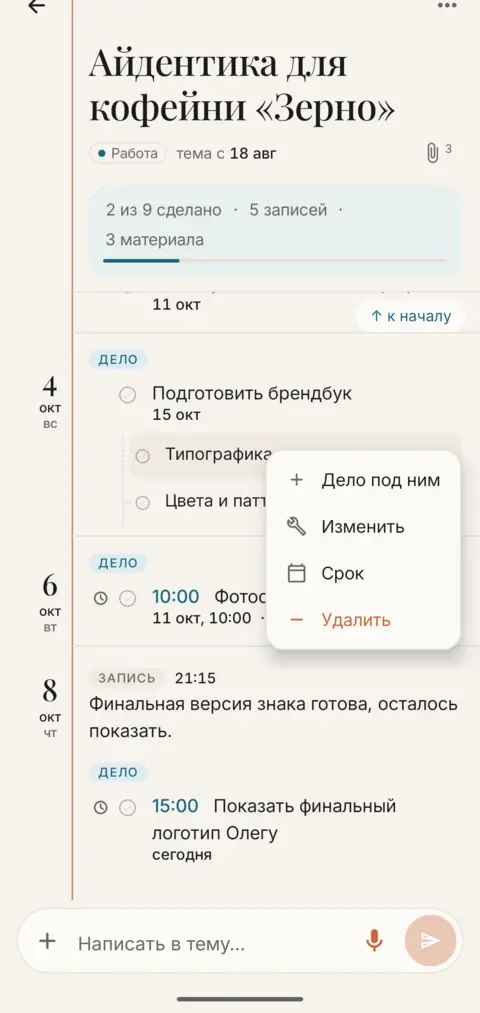
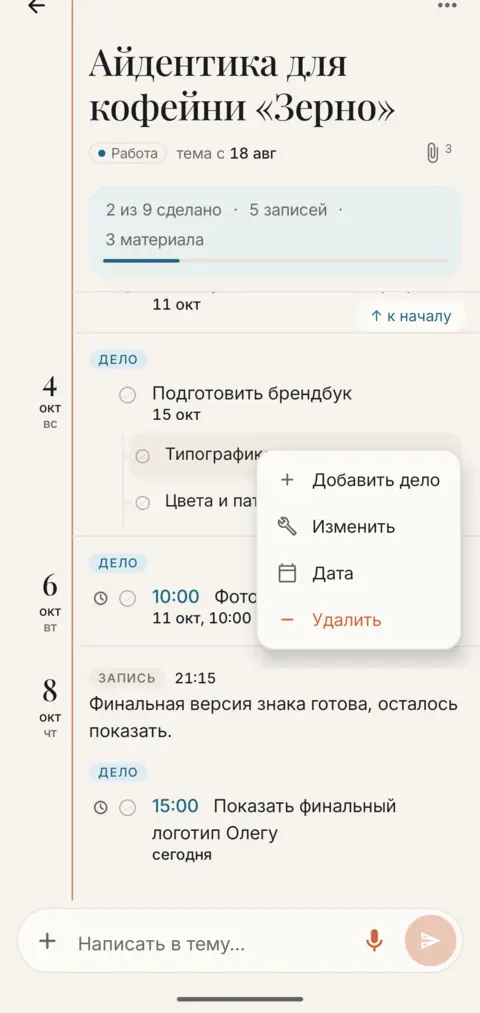
0.17: структура, замкнутые циклы, виджет, отпечаток, Помощь с разделами, чистка кода
- Обзор: активность на полях, сфера под названием, «Без даты» первым; «Входящие» на Сегодня
- Календарь сворачивается в неделю; «напомнить» по просроченным обещаниям; карточка недели; «Переслать» тему
- Вечернее уведомление «Перенести на завтра»; виджет «Margin · Сегодня»; вход по отпечатку, «Где ваши данные»
- Помощь: оглавление и поиск, новые скриншоты; вычитка русских названий
- MainVm: чистые операции в data/ (+OpsTest), удалён старый бриф; бот и IMAP — только в debug; палитра

Changed region(s): [[0.5312, 0.4284, 0.9062, 0.6426]]

diff --git a/CLAUDE.md b/CLAUDE.md
@@ -34,7 +34,7 @@
   - **Тема без страницы «Дела»** (с 8 окт): одна лента; нажатие на прогресс — фильтр «только дела» (поле ввода тогда добавляет дело), скрепка — материалы. Время дела — петрольная ссылка перед названием (часы), шрифт строк как на «Сегодня». В меню ⋯: «Изменить», «В архив»; у архивной — «Вернуть», «Удалить». Галочки «В архив» в шапке нет. Строки из списков открывают тему с подсветкой дела в ленте («d:<id>»).
   - **«/» в главном поле** (`SmartComposer(slash = true)`): маленькое окошко с вариантами друг под другом — /дело /тема /идея и /работа /личное; выбранное — плашкой над полем, уходит в начало текста. `MainVm.send` разбирает теги: /дело → команда «задача», /идея → заметка (идея), /тема → `create_task` с `topic=true`, сфера — в `sphere` у созданного. Теги решают, ИИ только дополняет.
   - **Кружок дела** (`CheckCircle`) — меньше и тоньше (0,8 от размера, кольцо 1,1 dp), сделанное — заливка `c.ok` с белой галочкой.
-  - **Несколько дней у дела** (`Slot`, `data/Slots.kt`): «тренировка в пн и чт» — одно дело с днями, у каждого дня своя галочка и время; дело сделано, когда отмечены все. `due/time` (у дела и у дела темы) всегда = следующий открытый день (`syncSlots`, в т.ч. в `Topics.track`), поэтому сортировка, «просрочено», напоминания и ИИ работают как раньше. В списках дня — строка на каждый открытый день с id «<строка>@<день>» (`slotRows`, `slotRef`) и подписью «день 1 из 2»; отметка/перенос/время такой строки — `MainVm.toggleSlot/moveSlot`. Карточка: дни плашками (нажатие — отметить, долгое — убрать), «+ день». ИИ: `dates` в create_task/update_task/подзадачах; если пришли и дни, и повтор — решают слова (`everyCue`: «каждый», «по понедельникам» → повтор). Тесты: `SlotsTest` (офлайн), `YA_LIVE=1 RUNS=2 … --tests '*SlotsLiveTest*'` (8 окт: 10/10).
+  - **Несколько дней у дела** (`Slot`, `data/Slots.kt`): «тренировка в пн и чт» — одно дело с днями, у каждого дня своя галочка и время; дело сделано, когда отмечены все. `due/time` (у дела и у дела темы) всегда = следующий открытый день (`syncSlots`, в т.ч. в `Topics.track`), поэтому сортировка, «просрочено», напоминания и ИИ работают как раньше. В списках дня — строка на каждый открытый день с id «<строка>@<день>» (`slotRows`, `slotRef`) и подписью «день 1 из 2»; отметка/перенос/время такой строки — `MainVm.toggleSlot/moveSlot` → `AppData.toggleSlot/moveSlot` (`data/Slots.kt`). Карточка: дни плашками (нажатие — отметить, долгое — убрать), «+ день». ИИ: `dates` в create_task/update_task/подзадачах; если пришли и дни, и повтор — решают слова (`everyCue`: «каждый», «по понедельникам» → повтор). Тесты: `SlotsTest` (офлайн), `YA_LIVE=1 RUNS=2 … --tests '*SlotsLiveTest*'` (8 окт: 10/10).
   - **Пример данных** (`data/Demo.kt`): два месяца молодого дизайнера в Москве — рабочие и личные темы с лентами, материалами (картинки и PDF рисуются на телефоне, файлы `demo_*`), идеи, дела всех видов (просрочено, сегодня, повторы, несколько дней, ждём/обещал, без даты разного возраста, сделано, «не буду»), люди и организации, «Входящие». Даты — от сегодняшнего дня. Предлагается один раз после туториала и в Настройках («Пример данных»); данные пользователя откладываются в `files/margin.mine.json` (только при первой загрузке) и возвращаются кнопкой «Вернуть мои данные».
   - **Разбор в телефоне** (`ai/LocalParser.kt`, с 8 окт): фраза → дела без ИИ — вид (теги «/», «идея:»), даты и время («завтра в 15», «к среде», «через неделю», «12 октября», «до 10-го», «вечером»), несколько дней, повторы, люди (контакты + словарь частых имён во всех падежах, даже строчными), «Дима пришлёт…» → ждём, «обещал Анне…» → обещание, адрес, несколько дел в одном сообщении. Результат — те же действия, что у ИИ (`plan` → `Assistant.apply`). `Result.sure = false` для отчётов («созвонились»), правок («перенеси»), длинной диктовки, двух дат в одном куске, ожидания с продолжением, телефона/почты — тогда при сети спрашивается ИИ. Режим `Settings.parseMode`: «Телефон» (только код) / «Авто» (по умолчанию: код, сложное — ИИ) / «ИИ»; без сети или без ключа — всегда код. Под полем — живое превью (`MainVm.previewOf`, `SmartComposer(preview)`). Замер: `LocalParserTest` (своё — 50/50, чужие фразы из тестов ИИ — 14/15 верно, ни одной уверенной ошибки). **Регулярки проверять на устройстве**: в Android (ICU) lookbehind должен иметь ограниченную длину (`(?<=\p{L}{1,30})`), на JVM тесты это не ловят; разбор и превью обёрнуты в `runCatching`.
   - **Три вкладки — три вопроса** (с 8 окт): «Сегодня» — что сейчас; «Календарь» (`Views.WEEK`, рисует `CalendarScreen`: месяц сеткой + выбранный день) — что когда; «Обзор» (`Views.ALL`) — что есть: «Темы · Дела · Идеи» (по умолчанию «Темы»), под заголовком «5 тем · 35 дел · 4 идеи», фильтр «Личное / Работа» (без сферы = личное). Темы — `MonthTopicRow`, Идеи — `MonthIdeaRow`: на полях день начала тем же `DayMargin`, что в «Делах»; «N записей ▾» раскрывает записи; у идей — ссылки на выросшее. Дела — по дням и «Без даты». Пункта «Календарь» в боковом меню нет. Чисел на вкладках нет (сколько — говорит сводка); в «Обзоре» нет заголовка «Обзор» — сразу подменю. Вкладки 17sp, выбранная — чернила SemiBold; подменю 16sp, выбранное — петроль на светлой таблетке.
@@ -58,6 +58,7 @@
 - Словарь интерфейса (с 0.14): «дело · тема · идея · запись», не «задача/заметка»; главный экран в меню — «Ежедневник».
 - **Бета-инструменты (с 0.15)**: `data/Feedback.kt` — журнал падений (`MarginApp` ставит обработчик) и «Разобрало не так» (`filesDir/feedback/misparsed.jsonl`: фраза как набрана, кто разбирал phone/ai/card, что вышло); «Отправить отзыв» в меню — письмо на `Feedback.EMAIL` с журналами (FileProvider `feedback/`) и `MainVm.betaStats()` (разбор телефон/ИИ, отмены, расход). После падения при запуске — предложение отправить. Плитка «Записать» (`notify/WriteTile`) и динамические ярлыки «Записать/Надиктовать» (`MainActivity.ACTION_WRITE/DICTATE` → `focusKey`/`micKey` в `SmartComposer`). Пустое «Сегодня» — три примера (`Strings.tryExamples`, вставляются в поле). Поиск: недавние, «люди · темы · файлы», найденное дело темы ссылкой «↳». «Пример данных» в настройках — только в демо и в разделе разработчика (или «Вернуть мои данные»); «Пересылка» — в «Помощи».
 - **0.16 (этап 3)**: корпус разбора `ParseCorpusTest` (246 фраз, база чт 8 окт 10:00; порог 95 %, уверенных ошибок 0) — гонять после любой правки `LocalParser`, новые фразы из журналов «Разобрало не так» добавлять туда; `ParseHoldoutTest` — независимый замер (не подгонять под него). Срок «до/к четвергу» в четверг — следующий четверг. ИИ: дата темы уходит в то дело, о котором слова (`Assistant.matterOf`: ждём от названного → совпадение слов → единственное открытое; иначе ничего), `GuardsTest.topicDateGoesToTheMatterNamed`, живой `TopicsLiveTest.newsAboutAWait`. «Похоже, к теме …» — `AppData.likelyTopic` (люди темы ×3 + слова), в пузыре и во «Входящих». «Сегодня»: обещаний 3 + «ещё N ›», «просрочено с …», «Без даты» свёрнут при >5 (prefs `ui/undatedOpen`). Тема: части сводки — фильтры (дела / записи / материалы), «↑ к началу».
+- **0.17 (этап 4)**: «Обзор · Темы» — на полях последняя активность (`Task.lastActivity`), сфера под названием; «Обзор · Дела» — все дела, «Без даты» первым (решение владельца: обзор показывает всё). Строка «Во «Входящих»: N» на «Сегодня» (не дублируется с карточкой недели). Календарь: при прокрутке месяц сворачивается в закреплённую неделю, выходные серые. «напомнить» у чужого просроченного обещания и в карточке дела — `remindAbout` (SMS / «Поделиться», текст `remindText`). Карточка недели по воскресеньям (`AppData.weekReview`, в разделе разработчика — всегда). Тема → ⋯ «Переслать» (`topicText`). Вечернее уведомление: «Перенести на завтра» (только сегодняшние, без повторов и дней). Виджет «Margin · Сегодня» (Glance, `widget/TodayWidget`, обновляется через `Store.onSaved`). Вход по отпечатку (`Lock`, `Settings.lock`, MainActivity — FragmentActivity) и «Где ваши данные». Свой бот/IMAP — только в debug (`BuildConfig.FORWARD_CHANNELS`). Цвета белый/чёрный — `Palette.onAccent/overlay`. «Помощь» — оглавление из 6 групп (`Strings.helpGroups`) и поиск; скриншоты переснимаются с демо-сборки (обрезка 120 px сверху, 480 px, webp q72; «/» и «#» — через «Поделиться», без клавиатуры). Словарь вычитан: «Понято не так», «Добавить дело», «Дата» в меню темы.
 - APK: `~/Desktop/Margin2-<версия>.apk`, архив — `releases/Margin2-<версия>.apk`, тег `v2-<версия>`.
 - **Демо-копия**: `./gradlew assembleDemo` → `app/build/outputs/apk/demo/app-demo.apk` (`ru.anjeib.margin.v2.demo`, «Margin 2 · демо», подписана, ставится рядом): при первом запуске сама загружает пример данных (`BuildConfig.DEMO` → `MainVm.loadDemo`). Кладётся как `~/Desktop/Margin2-<версия>-demo.apk` и в `releases/`.
 
@@ -94,7 +95,7 @@
   - **Почта** — IMAP (`com.sun.mail:android-mail`), пароль приложения; берутся только новые письма, отправленные себе на свой адрес или на «+margin»; только чтение, в ящике ничего не помечается. Сервер по домену (`Forward.imapHost`).
   - **MAX** — личных ботов нет (только юрлица/ИП): «Копировать» → в Margin кнопка «Вставить скопированное» (смотрится только описание буфера, текст читается по нажатию). Плюс везде: «Поделиться → В Margin» (текст, фото, файлы) и «В Margin» в меню выделенного текста (`PROCESS_TEXT`) — лист поверх чужого приложения, пользователь остаётся там.
   Секреты пересылки — в отдельных prefs `forward` (не входят в резервную копию Google). Очередь разбирается под мьютексом (`Processor.drain`) — приложение и воркер не возьмут одну запись дважды. Если ИИ ответил, что менять нечего, запись во «Входящие» не дублируется.
-- **3.18:** вместо ИИ-сводки на главной — блок «Обещания», собранный кодом (ждём и обещали, срок до +3 дней или просрочено; закрываются прямо в блоке; в списках ниже эти задачи не повторяются, кроме задач со временем в ленте дня). ИИ-бриф больше не строится (код `BriefCard`/`makeBrief` остался на случай возврата). Бейджи: «Обещание · Вам от Марины» / «Виктору от Вас» (`PromiseBadge`, склонение имён `String.dative()/genitive()` в `data/Writing.kt`, компании не склоняются), люди — бейджем с полным именем (`PersonBadge`) вместо буквы. «Люди» → «Контакты» во всём интерфейсе (люди и компании). Задача из идеи «Посмотреть» в заметке «Одиссея» → «Посмотреть Одиссею» (`Task.bareFromNote`, `String.accusative()`, правило в `ideaPrompt`). Окно «В Margin»: приложение-источник по имени (Gmail, Telegram…), отправитель из текста (`Forward.sender`: «От: Имя <почта>», шапка Яндекса, копия Telegram, «ООО …») с «+ контакт» (`Forward.addContact`), внизу обычное живое поле ввода (`SmartComposer(sendEmpty = true)`). Отправителя из Gmail «Поделиться» не даёт — для реального механизма нужна пересылка письма (IMAP) или своя почта Margin.
+- **3.18:** вместо ИИ-сводки на главной — блок «Обещания», собранный кодом (ждём и обещали, срок до +3 дней или просрочено; закрываются прямо в блоке; в списках ниже эти задачи не повторяются, кроме задач со временем в ленте дня). ИИ-бриф больше не строится (код `BriefCard`/`makeBrief` удалён в 0.17; найти — `git show v2-0.16`). Бейджи: «Обещание · Вам от Марины» / «Виктору от Вас» (`PromiseBadge`, склонение имён `String.dative()/genitive()` в `data/Writing.kt`, компании не склоняются), люди — бейджем с полным именем (`PersonBadge`) вместо буквы. «Люди» → «Контакты» во всём интерфейсе (люди и компании). Задача из идеи «Посмотреть» в заметке «Одиссея» → «Посмотреть Одиссею» (`Task.bareFromNote`, `String.accusative()`, правило в `ideaPrompt`). Окно «В Margin»: приложение-источник по имени (Gmail, Telegram…), отправитель из текста (`Forward.sender`: «От: Имя <почта>», шапка Яндекса, копия Telegram, «ООО …») с «+ контакт» (`Forward.addContact`), внизу обычное живое поле ввода (`SmartComposer(sendEmpty = true)`). Отправителя из Gmail «Поделиться» не даёт — для реального механизма нужна пересылка письма (IMAP) или своя почта Margin.
 - **3.19:** туториал — 4 экрана только о главном, с настоящими строками задач вместо описаний (пишите как думаете → результат; жесты; если понял не так — «Отменить» и команды; разрешения). Подробности — «Помощь» в меню под «Настройками» (`ui/Help.kt`, содержание — `Strings.helpSections`: как писать, разделы, обещания, внутри задачи и заметки, команды, жесты, связи, пересылка, голос и файлы). Команды «Исправить: …» (меняет существующее; действия `create_*` из ответа выбрасываются кодом) и «Добавить контакт: …». Счётчик «Отмены после ИИ» по местам (главная / в задаче / заметки) — в разделе разработчика (`MainVm.aiStats`, prefs `stats`): по нему решать, где нужны правила по умолчанию.
 - **3.20:** под задачей — одна тихая строка вместо плашек (`TaskLine`): «Вам от Марины · завтра · Ленина, 5 · #сайт». Ссылки цветом (с 3.21 — петроль): контакт → его страница, адрес → карта; просроченный срок — терракотой; имя не из контактов — серое, нажатие → «Лена — нет в контактах · + контакт». Плашки остались только в карточке задачи (там на них нажимают). Контакты только с согласия: упомянутый человек — черновик (`Person.draft`, виден ИИ, не виден в «Контактах», поиске, слиянии); контактом становится по «+ контакт» в пузыре при первом упоминании, нажатию на серое имя, «Добавить контакт: …», визитке, контакту из телефона, «+ контакт» при пересылке (`Person.kept`, `MainVm.keepContact`). Миграция: контакты без данных, кроме имени, и не добавленные руками → черновики. `LocalPeopleLinks` (MainActivity) решает, кто контакт и что делает нажатие на имя.
 - **3.21:** главная: заголовок-дата → «Обещания» → блок с бейджем «Сегодня N» (просроченное сверху с «Перенести на сегодня», затем по часам вместе со встречами календаря, затем без времени) → «На неделе» и «Без даты» свёрнутыми (что развернул пользователь, так и остаётся: prefs `ui`/`folded`). Все задачи — одним видом строки (`TaskRow`): никакого времени слева и белых карточек; в блоке «Сегодня» вместо «сегодня 16:00» — просто «16:00». Неделя — тоже строками. В строке срок первым, тёмным и чуть жирнее; просроченный — акцентом. Встречи календаря — строкой со значком календаря вместо кружка (`EventRow`).
@@ -128,6 +129,9 @@ data/Models.kt      Task, Subtask, Entry, Attachment, Note, Person, Repeat, Queu
 data/Store.kt       всё состояние в одном JSON (filesDir/margin.json): запись tmp → rename одним писателем (всегда свежее состояние), предыдущий файл — margin.json.bak; нечитаемый файл уходит в margin.broken-<время>.json и открывается .bak (диалог `LoadProblem`), ничего не перезаписывается; `AppData.v` = `Store.SCHEMA` — повышать при несовместимой правке модели. Тест — `StoreTest`
 data/Prefs.kt       настройки (SharedPreferences "margin"); ключ API по умолчанию из BuildConfig
 data/Files.kt       вложения в filesDir/att, превью, WavRecorder (16 кГц моно)
+data/MatterOps.kt   чистые операции над делами и темами (`AppData.toggleTask`, `postponeTo`, `setTime`, `archiveTopic`, `inboxToTopic`…), MainVm только вызывает их; тесты — `OpsTest`
+data/EntryOps.kt    записи, блоки, заметки, вложения
+data/PeopleOps.kt   контакты: слияние, архив, поля
 data/Repeats.kt     повторяющиеся задачи: next(), nextOccurrence() при выполнении
 data/PhoneCalendar  чтение календаря телефона (только чтение)
 data/MarginBackupAgent.kt  Auto Backup в аккаунт Google с выключателем (что входит — xml/backup_rules, xml/data_extraction_rules)
